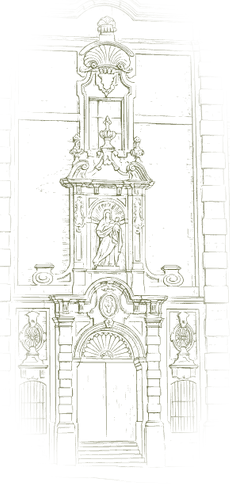
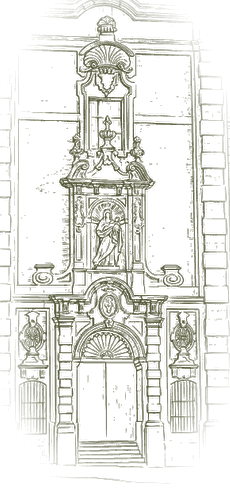
style(hoja-ruta): stronger fine lines on the four route drawings
Same treatment as the venue drawings on ajustes-dibujos-velo: line opacity
lifted (alpha^0.55 × 1.15) and the pencil tone darkened 18%. Median stroke
opacity: Ceremonia and Convite 18% → 44%, Fiesta and Buses 56% → 83%.
Cache-buster 20261105r.

diff --git a/index.html b/index.html
@@ -28,10 +28,10 @@
   <link rel="apple-touch-icon" sizes="180x180" href="assets/apple-touch-icon.png">
 
   <!-- Main Stylesheet. ?v= busts browser caches after each deploy: bump it whenever css/js change -->
-  <link rel="stylesheet" href="css/styles.css?v=20261103x">
+  <link rel="stylesheet" href="css/styles.css?v=20261105r">
 
   <!-- The envelope is the first thing on screen, so fetch its two images early -->
-  <link rel="preload" as="image" href="assets/sobre.jpg?v=20261103x">
+  <link rel="preload" as="image" href="assets/sobre.jpg?v=20261105r">
   <link rel="preload" as="image" href="assets/sello.png">
 </head>
 <body>
@@ -479,10 +479,10 @@
 
   </main>
 
-  <script src="js/i18n.js?v=20261103x"></script>
-  <script src="js/rsvp-config.js?v=20261103x"></script>
-  <script src="js/script.js?v=20261103x"></script>
-  <script src="js/playlist-config.js?v=20261103x"></script>
-  <script src="js/playlist.js?v=20261103x"></script>
+  <script src="js/i18n.js?v=20261105r"></script>
+  <script src="js/rsvp-config.js?v=20261105r"></script>
+  <script src="js/script.js?v=20261105r"></script>
+  <script src="js/playlist-config.js?v=20261105r"></script>
+  <script src="js/playlist.js?v=20261105r"></script>
 </body>
 </html>
